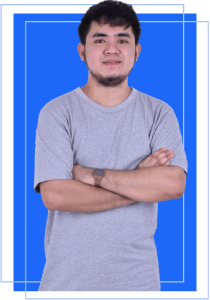
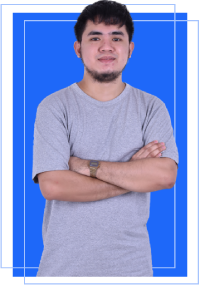
update layout and style

diff --git a/src/sass/pages/_home.scss b/src/sass/pages/_home.scss
@@ -3,15 +3,40 @@
   padding: 9.6rem 0;
 
   &__content {
-    display: grid;
-    grid-template-columns: 35rem 1fr;
+    display: flex;
     align-items: center;
-    justify-content: center;
     gap: 9.6rem 6.4rem;
 
     @include responsive(tab-small) {
-      grid-template-columns: 1fr;
-      row-gap: 6.4rem;
+      flex-direction: column;
+    }
+  }
+
+  &__image {
+    position: relative;
+    width: 100%;
+    height: 100%;
+
+    @include responsive(tab-small) {
+      order: 1;
+      width: 50%;
+    }
+
+    &::before,
+    &::after {
+      content: url('../icons/dots-mobile.svg');
+      position: absolute;
+      z-index: -1;
+    }
+
+    &::before {
+      top: -2.5rem;
+      left: -5rem;
+    }
+
+    &::after {
+      bottom: -5rem;
+      right: -2.5rem;
     }
   }
 
@@ -20,14 +45,12 @@
     border-radius: var(--b-radius-5);
 
     @include responsive(tab-small) {
-      height: 35rem;
-      object-fit: contain;
     }
   }
 
   &__info {
+    padding: 0 1.5rem;
     @include responsive(tab-small) {
-      grid-row: 1/2;
       text-align: center;
     }
   }
@@ -67,17 +90,47 @@
 }
 
 .contact {
-  padding: 9.6rem 0;
+  padding: 14rem 0 15rem;
+  margin: 12rem 0 14rem;
   height: calc(100vh - (9.6rem));
   display: flex;
   align-items: center;
+  position: relative;
+
+  &::before,
+  &::after {
+    content: url('../icons/dots-4.svg');
+    display: inline-block;
+    position: absolute;
+    left: 50%;
+    transform: translateX(-50%);
+  }
+
+  &::before {
+    top: -3rem;
+
+    @include responsive(tab-small) {
+      top: 0;
+    }
+  }
+
+  &::after {
+    bottom: -3rem;
+
+    @include responsive(tab-small) {
+      bottom: 0;
+    }
+  }
 
   &__heading {
-    line-height: 1.4;
+    font-size: clamp(3.2rem, 9vw, 5.6rem);
+    color: var(--color-grey-light);
+    line-height: 1.3;
+    letter-spacing: -0.25rem;
   }
 
   &__message {
-    font-size: 1.6rem;
+    font-size: 1.8rem;
     line-height: 1.6;
     margin: 0 auto;
     max-width: 70%;

diff --git a/src/js/Views/heroView.js b/src/js/Views/heroView.js
@@ -5,6 +5,20 @@ class HeroView extends View {
 
   constructor() {
     super();
+    this._addHandlerScrollCTA();
+  }
+
+  _addHandlerScrollCTA() {
+    this._parentElement.addEventListener('click', function (e) {
+      e.preventDefault();
+      const btnCTA = e.target.closest('.btn__cta');
+      if (!btnCTA) return;
+
+      const id = btnCTA.getAttribute('href');
+      document.querySelector(id).scrollIntoView({
+        behavior: 'smooth',
+      });
+    });
   }
 
   _generateMarkup() {
@@ -15,7 +29,7 @@ class HeroView extends View {
             <span class="hero__greet u-mb-xxs" data-aos="fade-up" data-aos-delay="100">👋 ${
               this._data.greetings
             }</span>
-            <h1 class="heading__primary u-mb-xs" data-aos="fade-up" data-aos-delay="200">${
+            <h1 class="heading__primary u-mb-xs u-o-hidden" data-aos="fade-up" data-aos-delay="200">${
               this._data.name
             }</h1>
             <h2 class="hero__secondary u-mb-sm u-fw-light" data-aos="fade-up" data-aos-delay="400">
@@ -26,7 +40,7 @@ class HeroView extends View {
             </p>
           </div>
           <div class="hero__buttons" data-aos="fade-up" data-aos-delay="700">
-            <a href="#" class="btn btn--primary btn--sm">Let's talk</a>
+            <a href="#contact" class="btn btn--primary btn--sm btn__cta">Let's talk</a>
             <a href="#" class="btn btn--outline btn--sm">Resume</a>
           </div>
           <div class="hero__floating">
@@ -35,7 +49,6 @@ class HeroView extends View {
               .join('')}
           </div>
         </div>
-        
       </section>
     `;
   }

diff --git a/src/sass/layout/_hero.scss b/src/sass/layout/_hero.scss
@@ -17,7 +17,7 @@
     z-index: 1;
     pointer-events: none;
 
-    @include responsive(phone-sm) {
+    @include responsive(phone-xs) {
       text-align: center;
     }
   }
@@ -31,9 +31,10 @@
   }
 
   &__secondary {
-    font-size: clamp(3.2rem, 5vw, 5.6rem);
-    line-height: 1.3;
-    letter-spacing: -0.03rem;
+    font-size: clamp(3rem, 5vw, 5.6rem);
+    color: var(--color-grey-light);
+    letter-spacing: -0.15rem;
+    line-height: 1.1;
   }
 
   &__message {
@@ -42,6 +43,10 @@
     font-weight: 400;
     line-height: 1.8;
     max-width: 65rem;
+
+    @include responsive(phone-sm) {
+      max-width: 100%;
+    }
   }
 
   &__buttons {
@@ -49,11 +54,8 @@
     align-items: center;
     z-index: 10;
 
-    @include responsive(phone-sm) {
-      justify-content: center;
-    }
-
     @include responsive(phone-xs) {
+      justify-content: center;
       flex-direction: column;
     }
   }
@@ -65,7 +67,7 @@
       gap: 2.4rem;
     }
 
-    @include responsive(phone-sm) {
+    @include responsive(phone-xs) {
       justify-content: center;
     }
   }

diff --git a/src/js/Views/aboutView.js b/src/js/Views/aboutView.js
@@ -8,8 +8,8 @@ class AboutView extends View {
     return `
       <section class="about" id="about">
         <div class="wrapper">
-          <h2 class="heading__secondary u-c-pd u-fw-bold u-mb-lg" data-aos="fade-up" data-aos-delay="0">About Me.</h2>
-          <div class="about__content u-mb-lg">
+          <h2 class="heading__secondary u-c-pd u-fw-bold u-mb-lg" data-aos="fade-up" data-aos-delay="400">About.</h2>
+          <div class="about__content u-mb-xl">
             <div class="about__image" data-aos="fade-up" data-aos-delay="300">
               <picture class="about__picture">
                 <img

diff --git a/src/sass/theme/_dark.scss b/src/sass/theme/_dark.scss
@@ -89,6 +89,10 @@ body.dark {
     &__message {
       color: var(--color-white-darkest);
     }
+
+    &__secondary {
+      color: var(--color-white-dark);
+    }
   }
 
   & .about {
@@ -137,6 +141,12 @@ body.dark {
     }
   }
 
+  & .contact {
+    &__heading {
+      color: var(--color-white-dark-2);
+    }
+  }
+
   & .footer {
     background-color: var(--color-black-light);
 
@@ -148,7 +158,7 @@ body.dark {
   & .heading {
     &__secondary,
     &__normal {
-      color: var(--color-white-dark);
+      color: var(--color-white-dark-2);
     }
   }
 

diff --git a/src/js/Views/projectView.js b/src/js/Views/projectView.js
@@ -46,7 +46,7 @@ class ProjectView extends View {
     return `
       <section class="projects" id="projects">
         <div class="wrapper">
-          <h2 class="heading__secondary u-fw-bold u-mb-lg" data-aos="fade-up" data-aos-delay="300">Projects.</h2>
+          <h2 class="heading__secondary u-fw-bold u-mb-lg" data-aos="fade-up" data-aos-delay="400">Projects.</h2>
           <div class="projects__grid">
             ${this._data
               .map((project, i) => this._generateMarkupProjects(project, i))

diff --git a/src/sass/base/_typography.scss b/src/sass/base/_typography.scss
@@ -14,17 +14,15 @@ body {
   font-size: clamp(4.4rem, 8vw, 9.6rem);
   font-weight: 700;
   line-height: 1.2;
+  letter-spacing: -0.25rem;
   @include gradient(var(--color-primary), var(--color-primary-dark));
 }
 
 .heading__secondary {
-  font-size: clamp(3.2rem, 5vw, 5.6rem);
+  font-size: clamp(3.2rem, 9vw, 5.6rem);
   line-height: 1.3;
-  letter-spacing: -0.03rem;
+  letter-spacing: -0.25rem;
 }
-
-// .heading__tertiary {
-// }
 
 .heading__normal {
   font-size: clamp(3.2rem, 3vw, 4.8rem);

diff --git a/src/js/Views/contactView.js b/src/js/Views/contactView.js
@@ -7,7 +7,7 @@ class ContactView extends View {
     return `
       <section class="contact" id="contact">
         <div class="wrapper u-t-center">
-          <h2 class="contact__heading heading__secondary u-fw-bold u-mb-md" data-aos="fade-up" data-aos-delay="400">
+          <h2 class="contact__heading u-fw-bold u-mb-md" data-aos="fade-up" data-aos-delay="400">
             ${this._data.heading}
             <span class="u-c-gc">you.</span>
           </h2>

diff --git a/src/sass/abstracts/_variables.scss b/src/sass/abstracts/_variables.scss
@@ -5,11 +5,13 @@
   --color-primary-dark-2: #78a4fb;
   --color-white: #fff;
   --color-white-dark: #f5f5f5;
+  --color-white-dark-2: #e3e3e3;
   --color-white-darkest: #d1d5db;
   --color-black: #202020;
   --color-black-light: #353535;
   --color-black-light-2: #4f4f4f;
   --color-black-lightest: #b1b1b1;
+  --color-grey-light: #656565;
   --header-height: 8rem;
   --transition: all 300ms ease-in-out;
   --b-radius-3: 0.3rem;

diff --git a/src/sass/components/_icon.scss b/src/sass/components/_icon.scss
@@ -6,7 +6,6 @@
   color: var(--color-black-light-2);
   margin-right: 1rem;
   transition: var(--transition);
-  height: 5rem;
 
   &::before {
     content: '';
@@ -35,6 +34,7 @@
     width: 2.4rem;
     height: 2.4rem;
     fill: currentColor;
+    transition: var(--transition);
   }
 
   &--no-transform {

diff --git a/public/index.html b/public/index.html
@@ -86,7 +86,7 @@
                 id="popup"
                 >Connect
               </span>
-              <div class="popup popup__social" id="popup__social">
+              <div class="popup" id="popup__social">
                 <ul class="popup__list"></ul>
               </div>
             </li>

diff --git a/src/sass/base/_utilities.scss b/src/sass/base/_utilities.scss
@@ -18,6 +18,10 @@
   margin-bottom: 6.4rem !important;
 }
 
+.u-mb-xl {
+  margin-bottom: 9.6rem !important;
+}
+
 .u-mt-lg {
   margin-top: 6.4rem !important;
 }
@@ -58,4 +62,8 @@
 
 .u-nt-r {
   transform: none !important;
+}
+
+.u-o-hidden {
+  overflow: hidden;
 }
